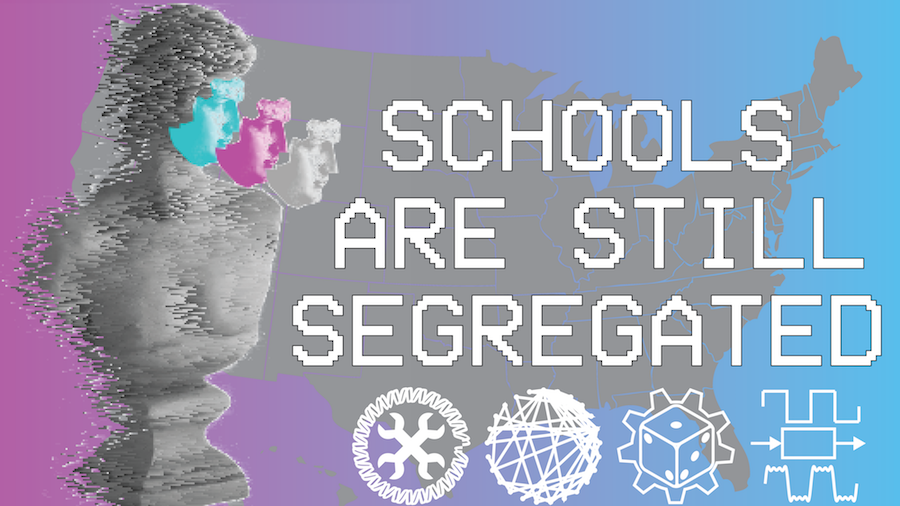
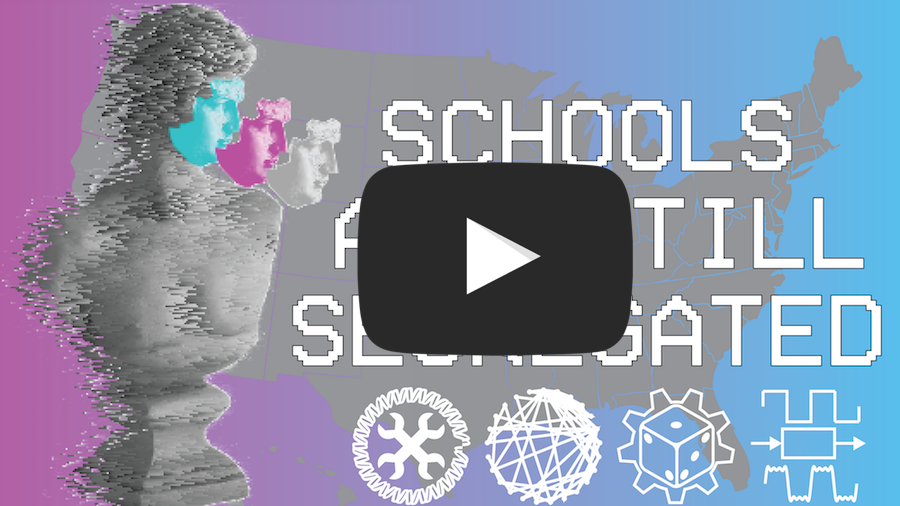
thumb_update

Changed region(s): [[0.3733, 0.2964, 0.7156, 0.7115]]

diff --git a/_site/segregation.html b/_site/segregation.html
@@ -64,7 +64,7 @@
     
     <div class="body"><script src="https://cdn.jsdelivr.net/npm/lazyload@2.0.0-beta.2/lazyload.js"></script>
 
-<meta property="og:image" content="/res/blog_8/thumb.png" />
+<meta property="og:image" content="/res/blog_8/thumb2.png" />
 
 <html>
   <head>

diff --git a/_posts/2018-01-01-segregation.md b/_posts/2018-01-01-segregation.md
@@ -5,7 +5,7 @@ description: "Did segregation really end a generation ago? Here we investigate h
 comments: yes
 ---
 <script src="https://cdn.jsdelivr.net/npm/lazyload@2.0.0-beta.2/lazyload.js"></script>
-<meta property="og:image" content="/res/blog_8/thumb.png">
+<meta property="og:image" content="/res/blog_8/thumb2.png">
 <html>
   <head>
     <link rel="stylesheet"
